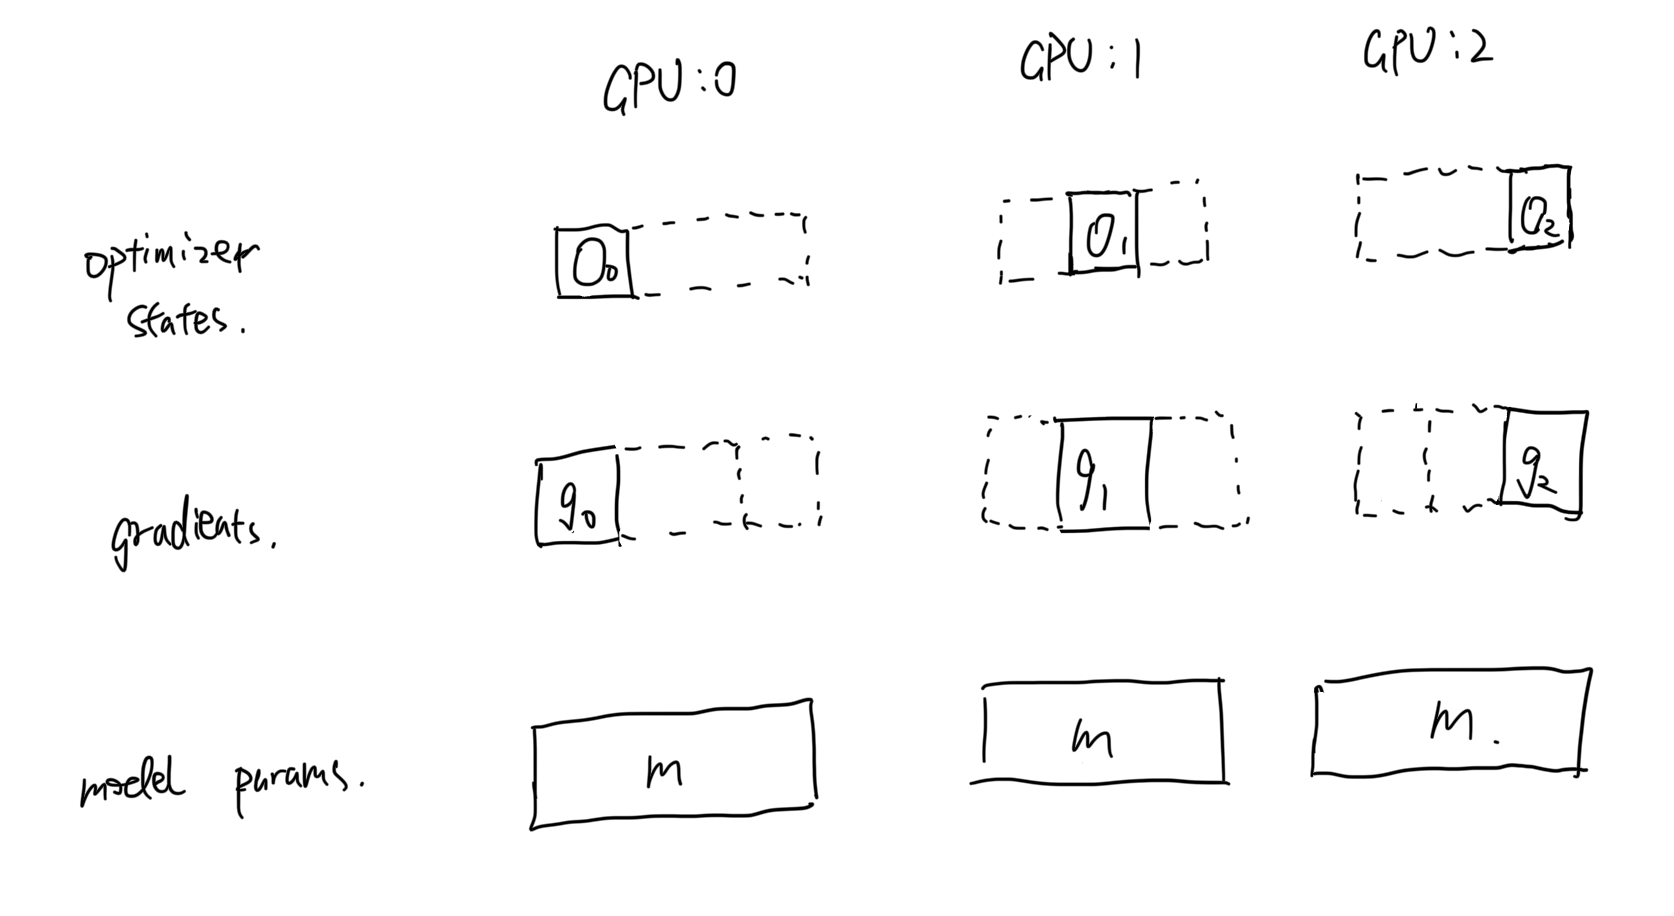
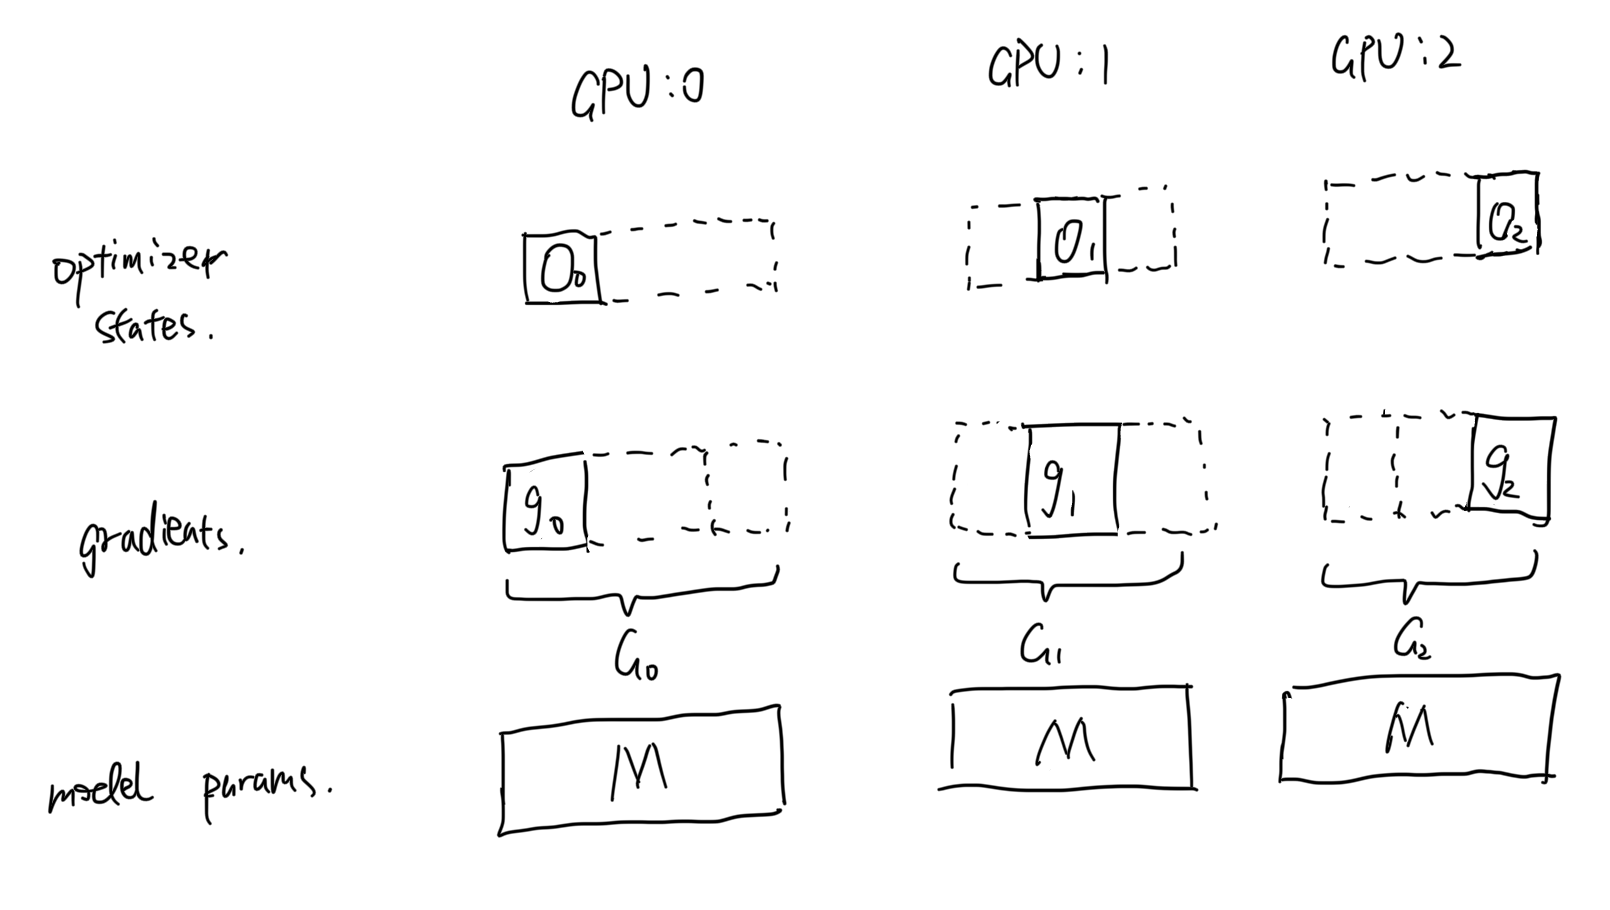
update graphs for dp

diff --git a/_posts/2024-03-20-data_parallelism_1.md b/_posts/2024-03-20-data_parallelism_1.md
@@ -15,16 +15,16 @@ Here I am trying to illustrate all DP techniques chronically with reasoning for 
 ## Data Parallelism
 Data Parallel (DP) is the foundational and most intuitive form of parallelism in model training. It partitions input data across batch dimension and replicates the model across multiple workers, and each worker processes a subset of the data batch.
 
-   * Parameter Server(PS) Architecture: DP achieves multiple workers computing and synchronizing gradients by parameter server. In practice, if you training model with DP on two gpus but they occupy uneven amount of memories. The reason is that one of two GPUs (typically the first GPU) acts as a parameter server stores and updates optimizer states. See the left graph below.
+   * Parameter Server(PS) Architecture: In the past, DP achieves multiple workers computing and synchronizing gradients by parameter server. It is originally proposed in multi-node training setting, but I resemble modern DP on multi-GPU to multi-node setting here. In practice, if you train model with DP on two gpus, you can observe they occupy uneven amount of memories. The reason is that one of two GPUs (typically the first GPU) acts like a parameter server stores and updates optimizer states. See the graph below.
    * During gradient communication, each worker (on one thread) is responsible for `push` and `pull` gradients at the same time to/from PS as shown on the right graph. Workers(single process multiple threads) contribute to the process actively.
 
 ![DP](../../images/blogs/dp.png)
-However, as the number of workers grow, the instance communication volume upon push and pull gradients incur a sudden **communication overhead** which becomes a bottleneck for training speed.
+However, as the number of workers grow, the communication volume upon pushing and pulling gradients incurs a sudden **communication overhead** which becomes a bottleneck for training speed. It's because all workers share the same bandwidth to one parameter server.
 
 ## Distributed Data Parallelism
-Distributed Data Parallel (DDP) enhances DP by launching multiple processes, where each process handles a mini-batch of data but maintain optimizer states independently. This approach not only speeds up training but also reduces peak communication overhead through efficient all-reduce communication operation.
-   * No PS. In other words, all workers (multiple processes) on all GPUs participate gradients communication actively.
-   * During all-reduce communication, each GPU requires `send` and `rev` operation in a streaming manner, and this is enabled by multi-process. 
+Distributed Data Parallel (DDP) enhances DP by launching multiple processes, where each process handles a mini-batch of data but maintain optimizer states independently. This approach speeds up training mainly by reducing peak communication overhead through efficient all-reduce communication operation.
+   * No PS. In other words, all workers (multiple processes) on all GPUs participate gradients communication actively with its two "neighbour" GPUs.
+   * During all-reduce communication, each GPU requires `send` and `rev` operation in a streaming ring-like manner, and this is enabled by multi-process. 
 
 ![DDP](../../images/blogs/ddp.png)
 
@@ -34,10 +34,10 @@ Despite the communication improvement from DP to DDP, model and optimizer states
 
 ## DeepSpeed Zero
 
-Deepspeed Zero: DeepSpeed has three stages, and it optimize the redundancy incrementally from the first stage to the third stage.
-   1. **Optimizer States(OS)**: During DP forward pass, optimizer states are not needed because there is no gradient update. Can we partition the optimizer states during forward and gather and update it during backward? Zero stage1 handles this situation exactly -- with each GPUs hosts partial optimizer states, after all-reduce gradients, it all-gather optimizer states to sync weights. ![zero1](../../images/blogs/deepspeed_zero1.png)
-   2. OS + **Gradients(G)**: If you think deeply, each partial optimizer states only requires partial average gradients. It means we can also partition gradients across GPUs and only reduce-scatter gradients such that each partial gradients correspond to each partial optimizer state it corresponds to. Therefore, it not only optimizes memory usage (on gradients) but also communication from $3\theta$ to $2\theta$. ![zero2](../../images/blogs/deepspeed_zero2.png)
-   3. OS + G + **Model Weights**: So far we have optimized memory usage of tensors related to backward, how about tensors used for forward pass, the model parameter? In DP forward pass, each worker do forward computation independently with full model parameters, and it sounds tricky that how it can be optimized. Actually, the idea behind model weights optimization is "dispose it after usage". Suppose we have three model layers and two GPUs. $W_{xy}$ denotes xth layer's yth partition. For example, $W_{10}$ means the second layer weight on the first GPU. Suppose we forward pass the second layer on first GPU, we need to all-gather $W_{10}$ on local gpu and $W_{11}$ on the second GPU to materialize the second layer $W_{1}$. Afterwards, it discards $W_{1}$ and repeat the layer materialization step described. Therefore, the peak memory usage on each GPU (for model parameter only) is only the one layer weight in this example. ![zero3](../../images/blogs/deepspeed_zero3.png)
+Deepspeed Zero: DeepSpeed has three stages, and it optimize the redundancy incrementally in the three stages. Before we dive into stages, I would like to explain general notations in the graph. Dotted lines means it doesn't persist during training time, and they are materialized upon computation needs and discarded after computation. Solid lines means the tensor persist on GPU memory during training no matter whether it's being used for computation. Upper case letter means full (model-wise) size tensors, and lower case with index means partial size tensors. Letters with hat means tensors are reduced(averaged) across GPUs.
+   1. **Optimizer States(O)**: During DP forward pass, optimizer states are not needed because there is no gradient update. Can we partition the optimizer states during forward pass and gather it during backward? Zero stage1 handles this situation exactly -- with each GPUs hosts partial optimizer states, after all-reduce gradients $G$, it all-gather optimizer states to sync weights. ![zero1](../../images/blogs/deepspeed_zero1.png)
+   2. OS + **Gradients(G)**: In Zero1, averaged gradients after `all-reduce` $\hat{G}$ is equal to $avg(G_0, G_1, G_2)$. If you think deeply, each partial optimizer states only requires partial average gradients. For example, optimizer states $O_0$ only requires $\hat{g_0}$ to make an update but we gathered a full $\hat{G}$ in `gpu:0`. In Zero1, we communicate the full gradients which is unnecessary for updating optimizer states. Therefore, in zero2, we should also partition gradients across GPUs and only gather gradients $\hat{g_i}$ that correspond to its partial optimizer state $O_i$.(The communication operation is actually called `reduce-scatter`) Therefore, it not only optimizes memory usage (on gradients) but also reduces communication from $3\theta$ to $2\theta$. ![zero2](../../images/blogs/deepspeed_zero2.png)
+   3. OS + G + **Model Weights(M)**: So far we have optimized memory usage of tensors related to backward($O$ and $G$), how about tensors used for forward pass, the model parameter? In DP forward pass, each worker does forward computation independently with full model parameters, and it sounds tricky that how it can be optimized. Actually, the idea behind model weights optimization is "fetch and compute" and "dispose it after compute". Suppose we have three model layers and two GPUs. $W_{xy}$ denotes xth layer's yth partition. For example, $W_{10}$ means the second layer weight on the first GPU. Suppose we forward pass the second layer on first GPU, we need to all-gather $W_{10}$ on local gpu and $W_{11}$ on the second GPU to materialize the second layer $W_{1}$. Afterwards, it discards $W_{1}$ and repeat the layer materialization step described. Therefore, the peak memory usage on each GPU (for model parameter only) is only the one layer weight in this example. ![zero3](../../images/blogs/deepspeed_zero3.png)
 
 In practice, deepspeed zero3 could be significantly slower than DDP as the model is very large. The root cause is that the **granularity of model weights sharding unit is still not small enough to fully utilize compute-communication overlapping**.
 
@@ -54,10 +54,9 @@ only needs to materialize parameters from one unit at a time, which
 significantly reduces peak memory consumption
 
 FSDP (Fully Sharded Data Parallel) builds on the principle of Zero's third stage but with further optimizations that enhance performance, making it suitable for training large language models (LLMs) more efficiently. It proposes FSDP unit which is the smallest unit in FSDP that is turned into `FlatParameter` before sharding and materialized upon computation.
-On the one hand, it's more integrated with PyTorch ecosystem. On the other hand, FSDP unit is smaller than its equivalent "partition unit" in Zero3 which makes model weight fetching more streamlined and efficient w.r.t computation.
-
-
-
+On the one hand, it's more integrated with PyTorch ecosystem. On the other hand, FSDP unit is smaller than its equivalent "partition unit" in Zero3 which makes model weight fetching more streamlined and efficient w.r.t computation. An intuitive graph compares DeepSpeed simplified communication and computation time is shown below. $T_i$ represents the computation/communication time needed for ith "fetch and compute" unit.
+![deepspeed_vs_fsdp](../../images/blogs/deepspeed_vs_fsdp.png)
+I used the arrowed line in red to show the idle computation time difference between the two training framework. As the graph indicates, the smaller granularity of "fetch and compute" unit in FSDP enables less compute idle time.
 
 ## Q & A
 
@@ -69,4 +68,10 @@ There could be some common misunderstanding that FSDP is similar to Tensor Paral
 
 
 ### Q2: How does FSDP compare to model parallelism?
-Similar to Q1, they differ from these three perspectives. The second point worth mentioning, MP partitions model weights inter-layer, and TP partitions model weights intra-layer.
+Similar to Q1, they differ from these three perspectives. The second point worth mentioning, MP partitions model weights inter-layer, and TP partitions model weights intra-layer. Intuitively, if you have input logits, FSDP partition on one GPU which doesn't form a full weight matrix is not enough for forward pass but one or more layers on one GPU  from MP allows you do forward computation.
+
+
+
+## Q3: Why there are $G_0$, $G_1$, and $G_2$ rather than a unified $G$?
+Gradients on each GPU is computed w.r.t their respective input data batch. In other words, each GPU takes different data batch and results in different gradients. They have the full shape as the model but values are different. Therefore, they need some `reduce` operations to average.
+
